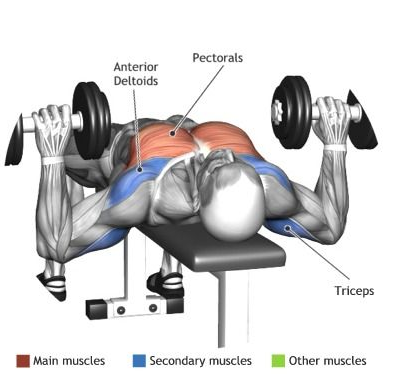
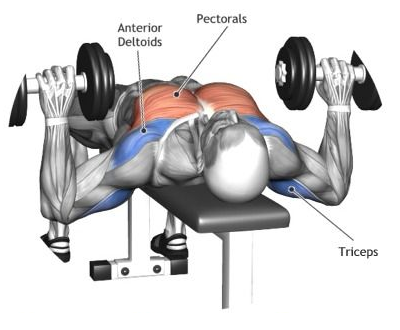
Estrutura exercicios

diff --git a/index.html b/index.html
@@ -85,19 +85,36 @@
 
             <div id="peito" class="musculo">
                 <h2>Treino de Peito</h2>
-                <h3>Peito Reto com Halter</h3>
-                <div class="img-container">
-                    <img src="img/treino/peito/peito_halter_01.png" alt="Peito Reto com Halter">
+                <div class="musculo-exercicio">
+                    <h3>Supino reto com halteres</h3>
+                    <div class="img-container">
+                        <img src="img/treino/peito/peito_halter_01.png" alt="Peito Reto com Halter">
+                    </div>
+                    <div class="instrucoes">
+                        <span><strong>Repetições:</strong> 5 séries de 10 / 4 séries de 12</span>
+                        <span><strong>Peso Iniciante:</strong> 6 KG cada lado</span>
+                        <span><strong>Peso Intermediário:</strong> 10 KG cada lado</span>
+                        <span><strong>Peso Experiente:</strong> 25 KG cada lado</span>
+                        <span><strong>Peso Monstro:</strong> 50 KG cada lado</span>
+                    </div>
                 </div>
-                <div class="instrucoes">
-                    <span><strong>Repetições:</strong> 5 séries de 10 / 4 séries de 12</span>
-                    <span><strong>Peso Iniciante:</strong> 6 KG cada lado</span>
-                    <span><strong>Peso Intermediário:</strong> 10 KG cada lado</span>
-                    <span><strong>Peso Experiente:</strong> 25 KG cada lado</span>
-                    <span><strong>Peso Monstro:</strong> 50 KG cada lado</span>
+
+                <div class="musculo-exercicio">
+                    <h3>Supino declinado com halteres</h3>
+                    <div class="img-container">
+                        <img src="img/treino/peito/peito_halter_02.png" alt="Peito Reto com Halter">
+                    </div>
+                    <div class="instrucoes">
+                        <span><strong>Repetições:</strong> 5 séries de 10 / 4 séries de 12</span>
+                        <span><strong>Peso Iniciante:</strong> 6 KG cada lado</span>
+                        <span><strong>Peso Intermediário:</strong> 10 KG cada lado</span>
+                        <span><strong>Peso Experiente:</strong> 25 KG cada lado</span>
+                        <span><strong>Peso Monstro:</strong> 50 KG cada lado</span>
+                    </div>
                 </div>
+                
             </div>
-            <section class="biceps">
+            <section id="biceps" class="musculo">
 
             </div>
         </section>

diff --git a/css/style.css b/css/style.css
@@ -213,6 +213,8 @@ tr:nth-child(even) {
 .treino h2 {
     text-align: center;
     padding: 20px 0;
+    color: var(--main-color);
+    text-shadow: 3px 3px var(--text-color);
 }
 
 .treino h3, h5 {
@@ -242,10 +244,29 @@ tr:nth-child(even) {
     box-shadow: 3px 3px var(--main-color);
 }
 
+/* Div de cada musculo */
 .musculo {
     display: flex;
     flex-direction: column;
     padding-bottom: 10px;
+}
+
+/* Div de cada exercicio */
+.musculo-exercicio {
+    display: flex;
+    flex-direction: column;
+    margin-top: 8px;
+
+    background: #0b0b13;
+    padding: 10px 5px;
+    border-radius: 5px;
+    cursor: pointer;
+    transition: all .40s;
+}
+
+.musculo-exercicio:hover {
+    transform: translateY(-15px);
+    box-shadow: 0px 15px 30px 0px rgb(0 0 0 / 70%);
 }
 
 .treino img {
